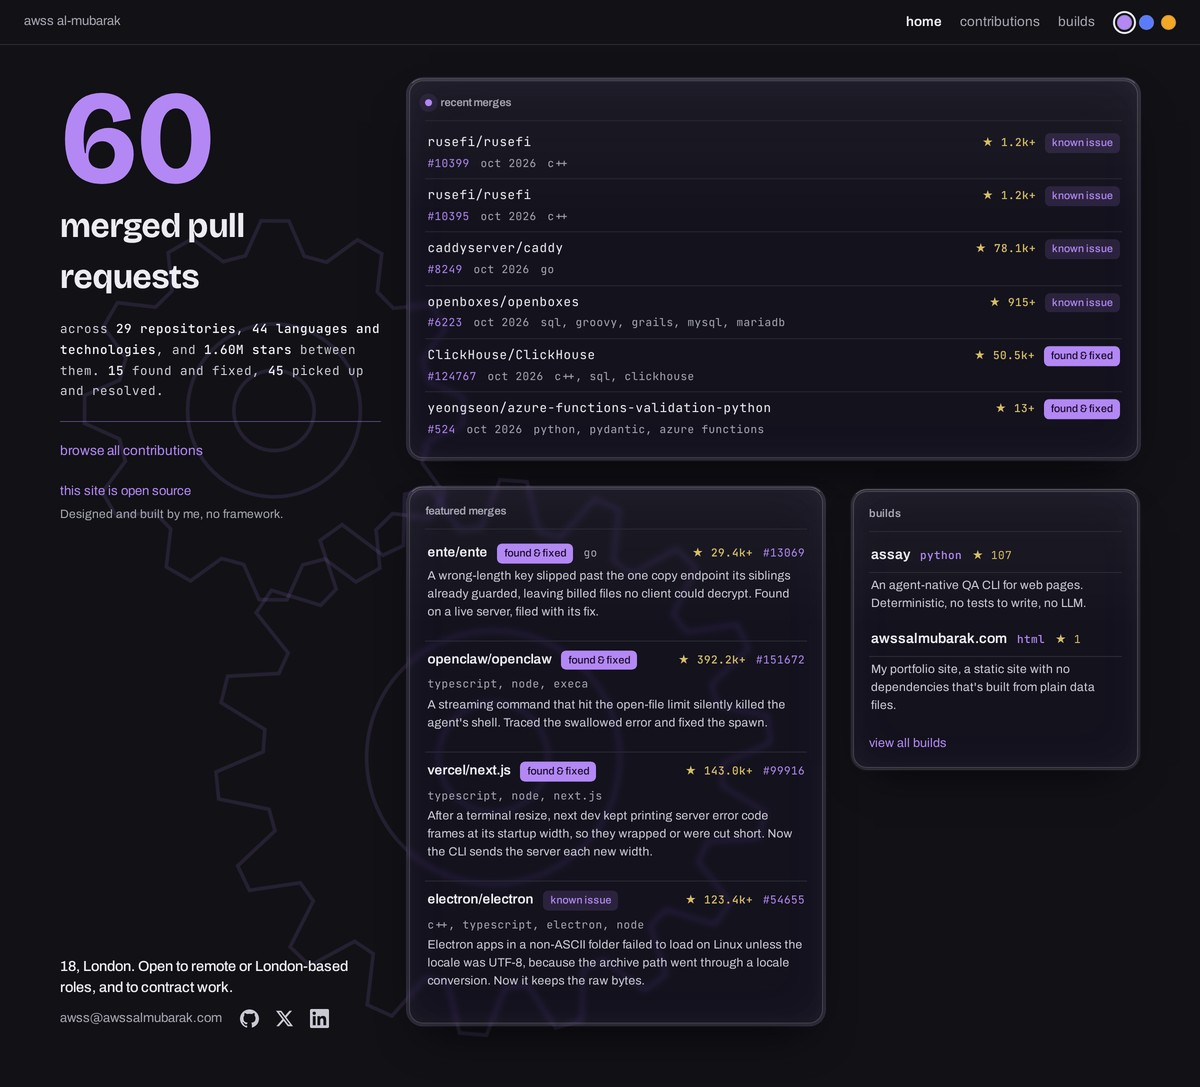
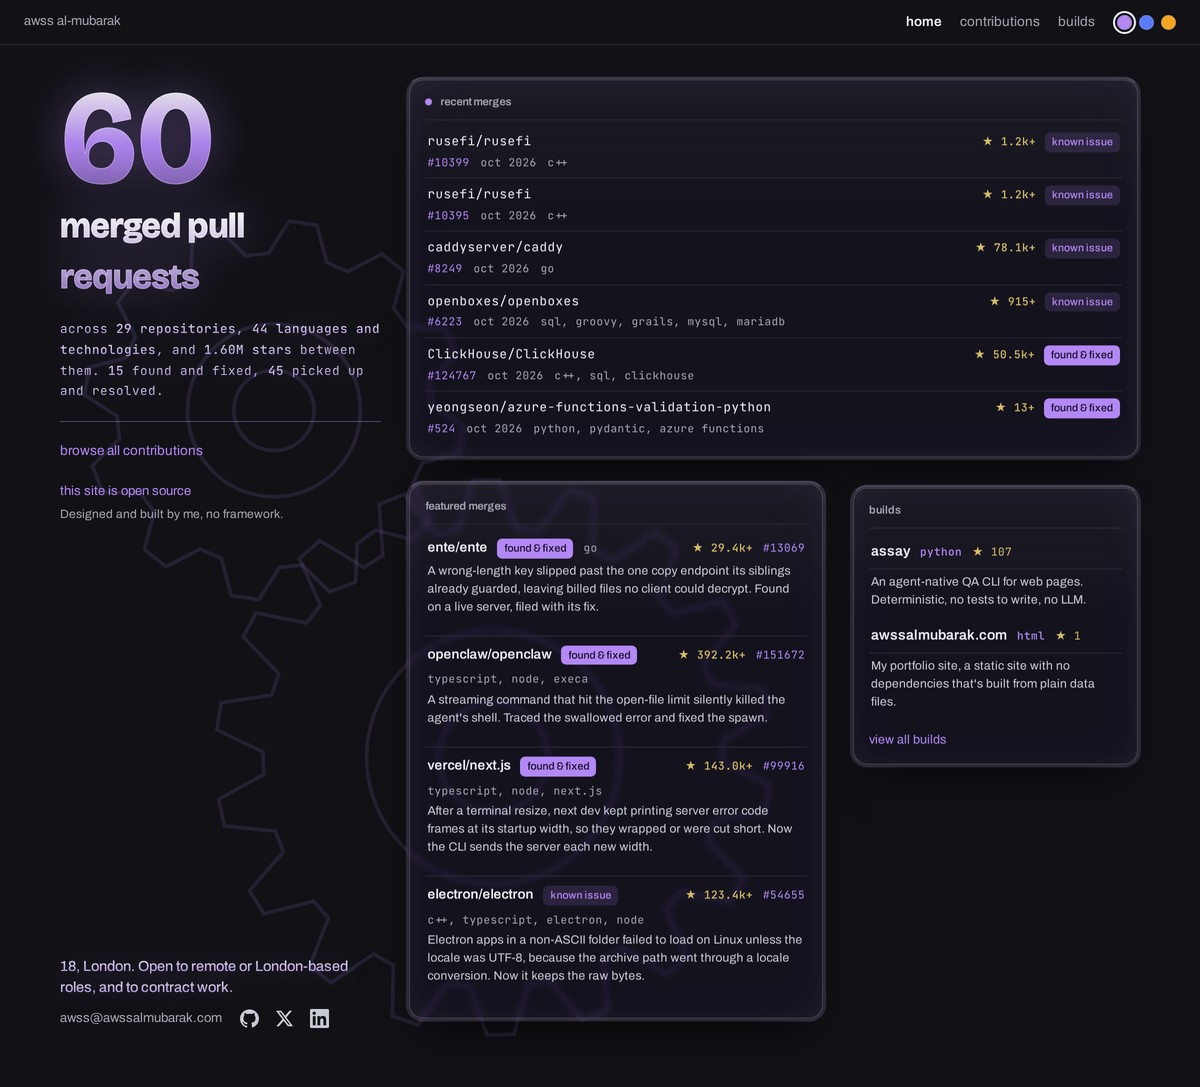
site: tinted glass headings, and the contributions headline on one line

diff --git a/site/home.template.html b/site/home.template.html
@@ -33,10 +33,12 @@
 .app{display:flex;flex-direction:column;gap:18px;padding:24px 22px}
 
 .numblock{display:flex;flex-direction:column;gap:3px}
-.count{font-family:var(--display);font-weight:700;font-size:clamp(76px,15vw,128px);line-height:.82;letter-spacing:-.03em;color:var(--accent);font-variant-numeric:tabular-nums}
+/* the count is glass lettering like the other headings, but leans further into the theme colour */
+.count{font-family:var(--display);font-weight:700;font-size:clamp(76px,15vw,128px);line-height:.82;letter-spacing:-.03em;font-variant-numeric:tabular-nums;
+  background-image:linear-gradient(180deg,rgba(255,255,255,.9),rgba(var(--pulse),.95) 55%,rgba(var(--pulse),.6))}
 .count-label{font-family:var(--display);font-weight:700;font-size:clamp(22px,4vw,34px);letter-spacing:-.01em;margin-top:4px}
-.statement{font-family:var(--mono);font-size:12.5px;color:var(--read);margin-top:14px;max-width:46ch;line-height:1.65}
-.statement b{color:var(--ink);font-weight:500}
+.statement{font-family:var(--mono);font-size:12.5px;margin-top:14px;max-width:46ch;line-height:1.65}
+.statement b{font-weight:500}
 .numblock .hr{width:min(100%,360px);margin-top:16px}
 /* .numblock is a flex column, which stretches its children to its full width, so the link keeps
    to its own width or its click area runs far past the words */
@@ -48,7 +50,7 @@
 .opensource .os-desc{display:block;font-size:12px;color:var(--muted);margin-top:3px}
 
 .about{display:flex;flex-direction:column;gap:11px}
-.about-line{font-size:14.5px;color:var(--ink);font-weight:500;max-width:40ch;line-height:1.45}
+.about-line{font-size:14.5px;font-weight:500;max-width:40ch;line-height:1.45}
 .contact{display:flex;flex-wrap:wrap;align-items:center;gap:8px 16px;font-size:13px;color:var(--muted)}
 .email{color:var(--muted);user-select:all;margin-right:2px}
 .email:hover{color:var(--accent)}
@@ -156,9 +158,9 @@
   <div class="app">
     <div class="gears"><svg class="gearsvg" viewBox="0 0 1000 560" preserveAspectRatio="xMinYMid slice"></svg></div>
     <section class="numblock">
-      <div class="count" id="count">0</div>
-      <div class="count-label">merged pull requests</div>
-      <div class="statement" id="statement"></div>
+      <div class="count glass-head" id="count">0</div>
+      <div class="count-label glass-head">merged pull requests</div>
+      <div class="statement glass-text" id="statement"></div>
       <div class="hr"></div>
       <a class="browse" href="/contributions">browse all contributions</a>
       <div class="opensource"><a class="os-main" href="https://github.com/awss1i/awssalmubarak.com" target="_blank" rel="noopener">this site is open source</a><span class="os-desc">Designed and built by me, no framework.</span></div>
@@ -176,7 +178,7 @@
       <div class="build-list" id="build-list"></div>
     </section>
     <section class="about">
-      <div class="about-line">18, London. Open to remote or London-based roles, and to contract work.</div>
+      <div class="about-line glass-text">18, London. Open to remote or London-based roles, and to contract work.</div>
       <div class="contact">
         <a class="email" href="mailto:awss@awssalmubarak.com">awss@awssalmubarak.com</a>
         <a class="soc" href="https://github.com/awss1i" target="_blank" rel="noopener" aria-label="github"><svg viewBox="0 0 24 24" aria-hidden="true"><path d="M12 .5C5.37.5 0 5.78 0 12.29c0 5.2 3.44 9.6 8.2 11.16.6.11.82-.25.82-.56v-2.1c-3.34.72-4.04-1.6-4.04-1.6-.55-1.37-1.34-1.74-1.34-1.74-1.09-.74.08-.73.08-.73 1.2.08 1.84 1.22 1.84 1.22 1.07 1.8 2.8 1.28 3.49.98.11-.76.42-1.28.76-1.57-2.67-.3-5.47-1.31-5.47-5.84 0-1.29.47-2.34 1.23-3.17-.12-.3-.53-1.52.12-3.17 0 0 1-.32 3.3 1.21a11.6 11.6 0 0 1 6 0c2.3-1.53 3.3-1.21 3.3-1.21.65 1.65.24 2.87.12 3.17.77.83 1.23 1.88 1.23 3.17 0 4.54-2.81 5.53-5.49 5.83.43.37.82 1.1.82 2.22v3.29c0 .32.22.69.83.57A12.02 12.02 0 0 0 24 12.29C24 5.78 18.63.5 12 .5z"/></svg></a>

diff --git a/site/builds.template.html b/site/builds.template.html
@@ -34,7 +34,7 @@
 .head{position:sticky;top:0;z-index:5;padding-top:18px;background:var(--bg);
   box-shadow:0 0 0 100vmax var(--bg);clip-path:inset(0 -100vmax)}
 h1{font-family:var(--display);font-weight:700;font-size:clamp(34px,6vw,52px);line-height:1;letter-spacing:-.02em;margin:0}
-.intro{font-size:14.5px;color:var(--read);margin-top:8px}
+.intro{font-size:14.5px;margin-top:8px}
 .intro + .hr{margin-top:18px}
 
 .build{display:grid;grid-template-columns:1fr;gap:22px;padding:34px 0;border-bottom:1px solid var(--line)}
@@ -155,8 +155,8 @@ html:has(dialog[open]){overflow:hidden}
 
   <main class="wrap">
     <div class="head">
-      <h1>Builds</h1>
-      <div class="intro">Everything I've built, open source.</div>
+      <h1 class="glass-head">Builds</h1>
+      <div class="intro glass-text">Everything I've built, open source.</div>
       <div class="hr"></div>
     </div>
     <div class="box" id="box">
@@ -243,7 +243,7 @@ html:has(dialog[open]){overflow:hidden}
       var site = b.site ? '<a class="build-link" href="'+safeUrl(b.site)+'" target="_blank" rel="noopener">Site</a>' : "";
       var link = b.url ? '<a class="build-link" href="'+safeUrl(b.url)+'" target="_blank" rel="noopener">Repo</a>' : "";
       return '<article class="build">'
-        + '<div class="build-body"><div class="build-head"><h2 class="build-name">'+esc(b.name)+'</h2>'
+        + '<div class="build-body"><div class="build-head"><h2 class="build-name glass-head">'+esc(b.name)+'</h2>'
         + (b.language?'<span class="build-lang">'+esc(b.language)+'</span>':"")+stars+'</div>'
         + '<p class="build-tagline">'+esc(b.tagline)+'</p>'
         + (feats?'<ul class="features">'+feats+'</ul>':"")

diff --git a/site/assets/site.css b/site/assets/site.css
@@ -60,6 +60,17 @@ button{font:inherit;color:inherit}
 .star{color:var(--star)}
 .hr{height:1px;border:none;background:var(--accent);opacity:.4;margin:0}
 
+/* tinted glass lettering for headings (.glass-head) and the text under them (.glass-text): white
+   at the top melting into the theme colour, with a theme glow, the way the glass panels carry a
+   hint of it. background-clip:text paints the gradient through every glyph, children included.
+   the glow is a drop-shadow filter, because a text-shadow would paint over the clipped gradient.
+   the text gradient repeats every line (1lh), so each line is lit from its own top. */
+.glass-head,.glass-text{color:transparent;-webkit-background-clip:text;background-clip:text}
+.glass-head{background-image:linear-gradient(180deg,rgba(255,255,255,.97) 10%,rgba(var(--pulse),.72));
+  -webkit-text-stroke:1px rgba(255,255,255,.22);filter:drop-shadow(0 0 22px rgba(var(--pulse),.4))}
+.glass-text{background-image:linear-gradient(180deg,rgba(255,255,255,.95),rgba(var(--pulse),.85));
+  background-size:100% 1lh;filter:drop-shadow(0 0 10px rgba(var(--pulse),.25))}
+
 /* contained layout, for a page whose body carries .contained: on desktop the page itself doesn't
    scroll. the header stays put and the .box below it is a rounded, softly pulsing glass panel that
    scrolls inside itself, clear of the bottom of the screen. narrower or shorter windows scroll the

diff --git a/site/contributions.template.html b/site/contributions.template.html
@@ -30,9 +30,11 @@
    to its merges. a plain scrolling page. */
 .wrap{max-width:1200px;margin:0 auto;padding-inline:24px;padding-block:40px 80px}
 h1{font-family:var(--display);font-weight:700;font-size:clamp(34px,6vw,52px);line-height:1;letter-spacing:-.02em;margin:0}
-.headline{font-size:14px;color:var(--read);margin-top:8px;max-width:70ch;line-height:1.55}
-.headline b{color:var(--ink);font-weight:500}
-.headline + .hr{margin-top:14px;width:min(100%,480px)}
+/* the headline runs the full width of the page, so it stays on one line until the window is
+   narrower than the search bar, and the divider under it spans that width too, as on builds */
+.headline{font-size:14px;margin-top:8px;line-height:1.55}
+.headline b{font-weight:500}
+.headline + .hr{margin-top:14px}
 
 /* the search bar sits halfway between the divider above and the filters below. --pin is the room
    kept above the search bar while the toolbar is pinned on phones, and the margin adds the rest. */
@@ -144,8 +146,8 @@ h1{font-family:var(--display);font-weight:700;font-size:clamp(34px,6vw,52px);lin
   </header>
 
   <main class="wrap">
-    <h1>Contributions</h1>
-    <div class="headline" id="headline"></div>
+    <h1 class="glass-head">Contributions</h1>
+    <div class="headline glass-text" id="headline"></div>
     <div class="hr"></div>
     <div class="toolbar">
       <div class="searchbar">
